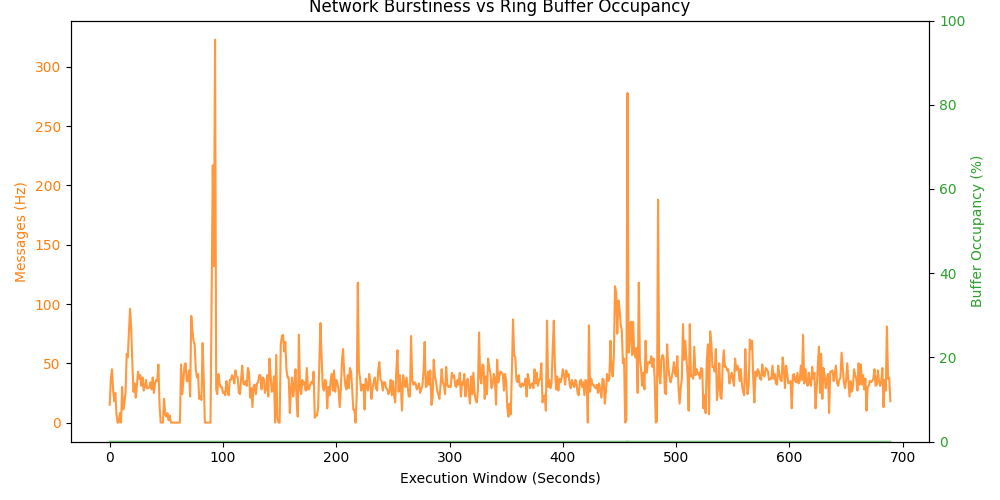
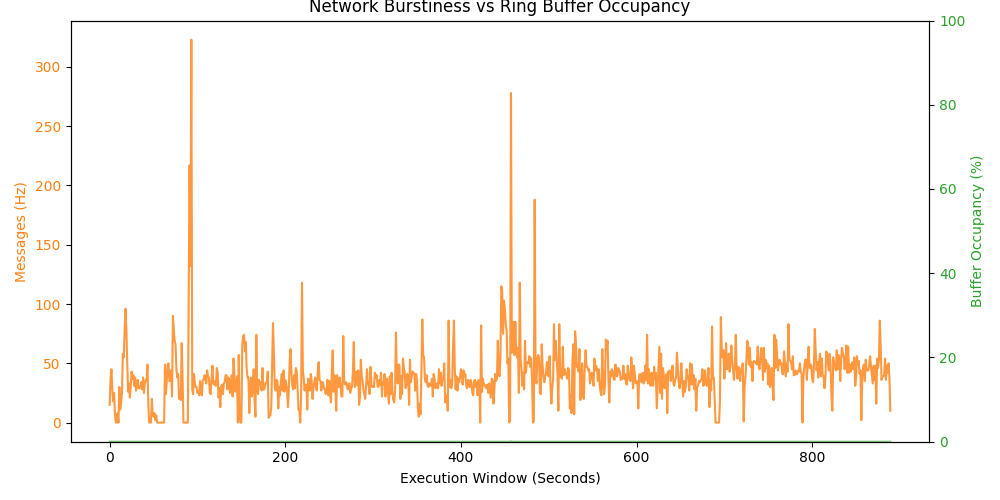
Added cross-compilation for the pi

diff --git a/Final_Project/docs/report.tex b/Final_Project/docs/report.tex
@@ -77,7 +77,13 @@ To isolate network latency from parsing overhead, the application operates on a 
 
 \subsection{Fault Tolerance and Deadlock Prevention}
 Long-running remote connections are frequently severed by cloud load balancers or intermittent network failures. Initially, if the websocket connection dropped, the \texttt{keep\_running} global flag was correctly disabled, but the application deadlocked during teardown. The Consumer thread would remain permanently blocked in a \texttt{pthread\_cond\_wait} state resting on an empty buffer, forever preventing the main thread from returning from \texttt{pthread\_join}. 
-To guarantee fault-resilience without aggressive polling, the internal \texttt{libwebsockets} network-closure callbacks (\texttt{LWS\_CALLBACK\_CLOSED} and \texttt{LWS\_CALLBACK\_CLIENT\_CONNECTION\_ERROR}) now proactively trigger a \texttt{pthread\_cond\_broadcast} signal across the mutex boundaries. This rigorously awakens resting threads, forcing them to evaluate the disabled run-flag and safely exit to prevent zombies.
+
+To guarantee fault-resilience without aggressive polling, the architecture employs a robust Self-Healing Reconnection Strategy. The internal \texttt{libwebsockets} network-closure callbacks (\texttt{LWS\_CALLBACK\_CLOSED} and \texttt{LWS\_CALLBACK\_CLIENT\_CONNECTION\_ERROR}) intercept the broken pipes but intentionally \textit{do not} trigger a full application shutdown. Instead, they assert a volatile \texttt{needs\_reconnect} state flag. The outer asynchronous event loop evaluates this flag, idles the producer thread for three seconds to prevent aggressive network polling on dead interfaces, and dynamically re-allocates a new connection via \texttt{lws\_client\_connect\_via\_info}.
+
+\subsubsection{Validating Reconnection on Headless Hardware}
+Testing network resilience on a headless embedded device poses a unique challenge: forcefully disabling the \texttt{wlan0} Wi-Fi interface (e.g., via \texttt{ifconfig down}) immediately kills the developer's active SSH session, preventing observation of the recovery logs. 
+To rigorously test the self-healing telemetry logger while preserving the SSH trace, we simulated WAN constraints by leveraging kernel-level \texttt{iptables}. 
+By dynamically dropping external TCP traffic destined specifically for the Firehose architecture (\texttt{sudo iptables -A OUTPUT -p tcp -d jetstream1.us-east.bsky.network -j DROP}), the SSH session remained securely established on the Local Area Network (LAN). The \texttt{libwebsockets} thread correctly caught the simulated WAN severance, emitted an error trace, and cleanly transitioned into its 3-second redial loop. Upon executing the \texttt{iptables} removal rule, the C-backend instantly restored the WebSocket context, recovering the inbound data stream indefinitely without requiring a system restart.
 
 \subsection{Memory Management and Buffer Sizing}
 Due to the constraints of the Raspberry Pi Zero W and the 24-hour uptime requirement, memory fragmentation limits were enforced:
@@ -103,6 +109,20 @@ To evaluate hardware limitations alongside software efficiency, a third thread (
 To accomplish sampling exactly at 1Hz without cascading timing errors, standard sleep mechanisms (like \texttt{sleep()} or \texttt{usleep()}) were discarded in favor of \texttt{clock\_nanosleep()} localized to \texttt{TIMER\_ABSTIME}. The thread computes the absolute next waking interval based on the machine offset, completely neutralizing cumulative clock drift over 24 hours.
 
 Additionally, a \textit{System Suspend Compensation} heuristic was required to safeguard the telemetry. If the host operating system enters sleep or hibernation, the real-time clock surges indefinitely forward. Upon resuming, absolute-time schedules automatically execute rapid spin-loops to "catch up" to missed execution periods mathematically. In our initial runs on my laptop, this anomaly simulated near-zero nanosecond delays, logging massive negative Jitter artifacts (pinned flat at $-1000$ms). Enforcing a live-check of \texttt{CLOCK\_REALTIME} prior to execution rectifies this, allowing the absolute sleep target to safely leap over the suspended time gap without corrupting the dataset.
+
+\section{Cross-Compilation and Raspberry Pi Zero W Deployment}
+
+To fulfill the edge-deployment constraints, the application must run natively on the Raspberry Pi Zero W (ARMv6 architecture). Compiling a complex application alongside dynamically linked external libraries (\texttt{pthreads}, \texttt{libwebsockets}, \texttt{cJSON}) directly on the Pi Zero is severely constrained by its 512MB RAM and single-core CPU, taking exceptional amounts of time and risking system freezes. To circumvent this, we utilized a Cross-Compilation strategy on a powerful x86\_64 Windows/WSL host as a standard embedded systems best practice.
+
+\subsection{Toolchain and Sysroot Management}
+The process of compiling standard C code into 32-bit ARM machine code requires a specialized GCC toolchain and an accurate replica of the target's logical filesystem (Sysroot). 
+\begin{itemize}
+    \item \textbf{Cross-Compiler:} We utilized the \texttt{arm-linux-gnueabihf} GCC 8.3.0 toolchain tailored for the Raspberry Pi 1 and Zero hardware\footnote{\url{https://sourceforge.net/projects/raspberry-pi-cross-compilers/files/Raspberry\%20Pi\%20GCC\%20Cross-Compiler\%20Toolchains/Buster/GCC\%208.3.0/Raspberry\%20Pi\%201\%2C\%20Zero/}}. This guarantees that the instruction flags (\texttt{-mcpu=arm1176jzf-s -mfloat-abi=hard}) translate seamlessly to the Pi Zero's ARM11 core and Vector Floating Point (VFP) coprocessor without triggering ``Illegal Instruction'' hardware faults.
+    \item \textbf{Sysroot Synchronization:} A cross-compiler cannot link against the host x86 machine's user-libraries. To permit the linker to resolve \texttt{libwebsockets.so} dependencies cleanly, we mirrored the live \texttt{/usr} and \texttt{/lib} directories natively from the Pi using \texttt{rsync} over SSH into our host WSL environment (creating a local \texttt{pi-sysroot}).
+\end{itemize}
+
+\subsection{Makefile Multi-arch Re-Routing}
+Modern Debian-based systems (like Raspberry Pi OS) utilize a Multi-Arch folder structure. Passing a standard \texttt{-{}-sysroot} compiling parameter is insufficient because Linux headers and standard start-up object files (such as \texttt{crt1.o}) remain segregated inside \texttt{/usr/lib/arm-linux-gnueabihf}. We updated the GNU \texttt{Makefile} logic to inject precise library search-paths (\texttt{-L} and \texttt{-B}) directly overriding the GNU \texttt{ld} linker configurations. Furthermore, we explicitly routed runtime path links (\texttt{-Wl,-rpath-link}) deeper into the isolated sysroot architecture folders so that nested dynamic objects could be found. This allowed the final compilation step to silently execute on the PC, yielding a completely valid \texttt{ELF 32-bit LSB executable, ARM, EABI5 version 1 (SYSV)} image dynamically bound for the exact Pi operating system. The binary is then deployed via \texttt{scp} over the network.
 
 \section{Real-Time Analytics and Performance Evaluation}
 Post-execution, the \texttt{analyze\_metrics.py} script ingests the \texttt{metrics\_log.txt} output to visualize the application's real-time operating parameters limit-tested over a given interval.

diff --git a/Final_Project/src/producer.c b/Final_Project/src/producer.c
@@ -2,17 +2,21 @@
 #include <libwebsockets.h>
 #include <string.h>
 #include <stdio.h>
+#include <unistd.h>
 
 #define FIREHOSE_URL "jetstream1.us-east.bsky.network"
 #define FIREHOSE_PATH "/subscribe?wantedCollections=app.bsky.feed.post"
 
 static AppState *global_app_state = NULL;
+static volatile int needs_reconnect = 0;
 
 /* 
  * libwebsockets callback for handling WebSocket events 
  */
 static int callback_firehose(struct lws *wsi, enum lws_callback_reasons reason,
                              void *user, void *in, size_t len) {
+    (void)wsi;
+    (void)user;
     switch (reason) {
         case LWS_CALLBACK_CLIENT_ESTABLISHED:
             printf("[Producer] Connected to Jetstream Firehose.\n");
@@ -40,22 +44,12 @@ static int callback_firehose(struct lws *wsi, enum lws_callback_reasons reason,
 
         case LWS_CALLBACK_CLIENT_CONNECTION_ERROR:
             printf("[Producer] Connection Error: %s\n", in ? (char *)in : "(null)");
-            global_app_state->keep_running = false;
-            // Wake up resting threads so they can exit their loops safely without hanging
-            pthread_mutex_lock(&global_app_state->buffer.mutex);
-            pthread_cond_broadcast(&global_app_state->buffer.not_empty);
-            pthread_cond_broadcast(&global_app_state->buffer.not_full);
-            pthread_mutex_unlock(&global_app_state->buffer.mutex);
+            needs_reconnect = 1;
             break;
 
         case LWS_CALLBACK_CLOSED:
             printf("[Producer] Connection Closed.\n");
-            global_app_state->keep_running = false;
-            // Wake up resting threads so they can exit their loops safely without hanging
-            pthread_mutex_lock(&global_app_state->buffer.mutex);
-            pthread_cond_broadcast(&global_app_state->buffer.not_empty);
-            pthread_cond_broadcast(&global_app_state->buffer.not_full);
-            pthread_mutex_unlock(&global_app_state->buffer.mutex);
+            needs_reconnect = 1;
             break;
 
         default:
@@ -69,12 +63,17 @@ static int callback_firehose(struct lws *wsi, enum lws_callback_reasons reason,
  */
 static struct lws_protocols protocols[] = {
     {
-        "firehose-protocol",
-        callback_firehose,
-        0,
-        MAX_PAYLOAD_SIZE,
+        .name = "firehose-protocol",
+        .callback = callback_firehose,
+        .per_session_data_size = 0,
+        .rx_buffer_size = MAX_PAYLOAD_SIZE,
     },
-    { NULL, NULL, 0, 0 } /* terminator */
+    {
+        .name = NULL,
+        .callback = NULL,
+        .per_session_data_size = 0,
+        .rx_buffer_size = 0,
+    } /* terminator */
 };
 
 void* producer_thread(void* arg) {
@@ -109,16 +108,26 @@ void* producer_thread(void* arg) {
     
     struct lws *wsi = lws_client_connect_via_info(&ccinfo);
     if (!wsi) {
-        fprintf(stderr, "[Producer] Failed to connect to firehose\n");
-        lws_context_destroy(context);
-        global_app_state->keep_running = false;
-        return NULL;
+        fprintf(stderr, "[Producer] Failed to connect to firehose. Will keep trying...\n");
+        needs_reconnect = 1;
     }
     
     printf("[Producer] Starting event loop...\n");
     
     // Asynchronous lws event loop
     while (global_app_state->keep_running) {
+        if (needs_reconnect) {
+            printf("[Producer] Attempting to reconnect to Jetstream Firehose in 3 seconds...\n");
+            needs_reconnect = 0;
+            sleep(3);
+            if (global_app_state->keep_running) {
+                wsi = lws_client_connect_via_info(&ccinfo);
+                if (!wsi) {
+                    fprintf(stderr, "[Producer] Reconnect failed. Will keep trying...\n");
+                    needs_reconnect = 1;
+                }
+            }
+        }
         lws_service(context, 50); // wait up to 50ms for events
     }
     

diff --git a/Final_Project/docs/stats_summary.tex b/Final_Project/docs/stats_summary.tex
@@ -1,9 +1,9 @@
 
 \begin{itemize}
-    \item \textbf{Median Jitter:} 0.00128 ms (Fractional microseconds).
-    \item \textbf{75th Percentile Jitter:} 0.03738 ms.
-    \item \textbf{Mean Average Jitter:} 0.00014 ms.
-    \item \textbf{Average CPU Load:} 0.60\%.
-    \item \textbf{Maximum CPU Load:} 2.68\%.
+    \item \textbf{Median Jitter:} 0.00026 ms (Fractional microseconds).
+    \item \textbf{75th Percentile Jitter:} 0.03974 ms.
+    \item \textbf{Mean Average Jitter:} 4.89039 ms.
+    \item \textbf{Average CPU Load:} 0.82\%.
+    \item \textbf{Maximum CPU Load:} 20.00\%.
     \item \textbf{Peak Buffer Occupancy:} 0.10\%.
 \end{itemize}

diff --git a/Final_Project/README.md b/Final_Project/README.md
@@ -36,6 +36,7 @@ pip install -r requirements.txt
 
 ## 🚀 Compilation & Build
 
+### Standard Build (Host Native)
 Navigate to the `Final_Project` directory and use the `make` utility.
 ```bash
 cd Final_Project
@@ -44,9 +45,34 @@ make all
 ```
 This will compile the `cJSON` library, the thread source codes, and link the `websockets` and `pthread` libraries, resulting in an executable named `telemetry_logger`.
 
-## 🏃 Execution
+### Cross-Compilation for Raspberry Pi Zero W (ARMv6)
+A Raspberry Pi Zero W has limited RAM and processing power, making direct compilation of complex C projects slow and risky. It is a best practice to cross-compile the binary on your more powerful development PC.
 
-To run the telemetry logger:
+1. **Get the Toolchain:** Download the [AbhiTronix GCC 8.3.0 Raspberry Pi 1, Zero Toolchain](https://sourceforge.net/projects/raspberry-pi-cross-compilers/files/Raspberry%20Pi%20GCC%20Cross-Compiler%20Toolchains/Buster/GCC%208.3.0/Raspberry%20Pi%201%2C%20Zero/). Extract this somewhere accessible (e.g. `~/cross-pi-gcc-8.3.0-0` on WSL) and ensure its `bin/` directory is in your `$PATH`.
+2. **Synchronize Sysroot:** The compiler needs to dynamically link `libwebsockets.so` and `pthread` meant for the Pi. You need to pull (`rsync`) the live `/usr` and `/lib` directories off the Pi to act as a "Sysroot".
+   ```bash
+   mkdir -p ~/pi-sysroot
+   rsync -avz --rsync-path="sudo rsync" pi_user@192.168.X.X:/lib ~/pi-sysroot/
+   rsync -avz --rsync-path="sudo rsync" pi_user@192.168.X.X:/usr ~/pi-sysroot/
+   ```
+3. **Compile:** Run the custom `pi` target to inject the ARM Architecture configurations and linker sysroot paths automatically.
+   ```bash
+   make clean
+   make pi
+   ```
+4. **Deploy:** Secure copy the compiled 32-bit `telemetry_logger` back to your Pi.
+   ```bash
+   scp telemetry_logger pi_user@192.168.X.X:~/
+   ```
+5. **Run:** Ssh into yout Pi and run the executable!
+    ```bash
+    ssh pi_user@192.168.X.X
+    ./telemetry_logger
+    ```
+
+## 🏃 Execution & Reconnection Testing
+
+To run the telemetry logger on the Pi:
 ```bash
 ./telemetry_logger
 ```
@@ -54,12 +80,28 @@ To run the telemetry logger:
 
 You can gracefully stop the process at any time by pressing `CTRL+C`. The daemon catches `SIGINT`, triggers a safe teardown of the websocket loop, frees the buffer contents, and exits the threads without corrupting memory.
 
+### Self-Healing Reconnection Strategy
+The application logic features a robust, self-healing producer thread. To test this on a headless device without losing your SSH session:
+1. Start the application (`./telemetry_logger`).
+2. Simulate a WAN network drop by unplugging your router's external internet cable, OR by temporarily dropping outbound packets to the Firehose via `iptables` (`sudo iptables -A OUTPUT -p tcp -d jetstream1.us-east.bsky.network -j DROP`). Do **not** execute `sudo ifconfig wlan0 down`, or you will instantly drop your SSH session!
+3. Observe the console: The `libwebsockets` library will catch the connection error and cleanly close the socket. The outer C tracking loop will automatically assert a reconnect flag and attempt to re-dial the Firehose every 3 seconds.
+4. Restore the internet connection (plug the cable back in, or execute `sudo iptables -D OUTPUT -p tcp -d jetstream1.us-east.bsky.network -j DROP`). The application will seamlessly recover, reconnect, and resume logging without needing a process restart.
+
 ## 📊 Analytics and Reporting
 
 While running, the `Monitor` thread will write CSV-style data into `metrics_log.txt`:
 `TIMESTAMP, CPU_UTILIZATION_PERCENT, PROCESSED_EVENTS_PER_SECOND`
 
-After terminating the logger, you can generate the analytical graphs:
+### Fetching Data from the Raspberry Pi
+Since running complex python graphical packages like `matplotlib` directly on the Raspberry Pi Zero W is incredibly slow, pull your logged data back to your PC!
+Run this from your **Host PC** (e.g. WSL terminal):
+```bash
+# Pull the text file out of the Pi
+scp pi_user@192.168.X.X:~/metrics_log.txt ./
+```
+
+### Generating Graphs
+After transferring the log file back down, you can visualize the performance natively:
 ```bash
 cd scripts
 # On Linux/WSL/Mac:
@@ -69,4 +111,4 @@ source venv/bin/activate
 
 python analyze_metrics.py
 ```
-This will read from `../metrics_log.txt` and generate `performance_report.png` showcasing the CPU utilization versus Event Throughput over time.
+This will read from `../metrics_log.txt` (or the folder it's in) and generate `performance_report.png` showcasing the CPU utilization versus Event Throughput over time.
